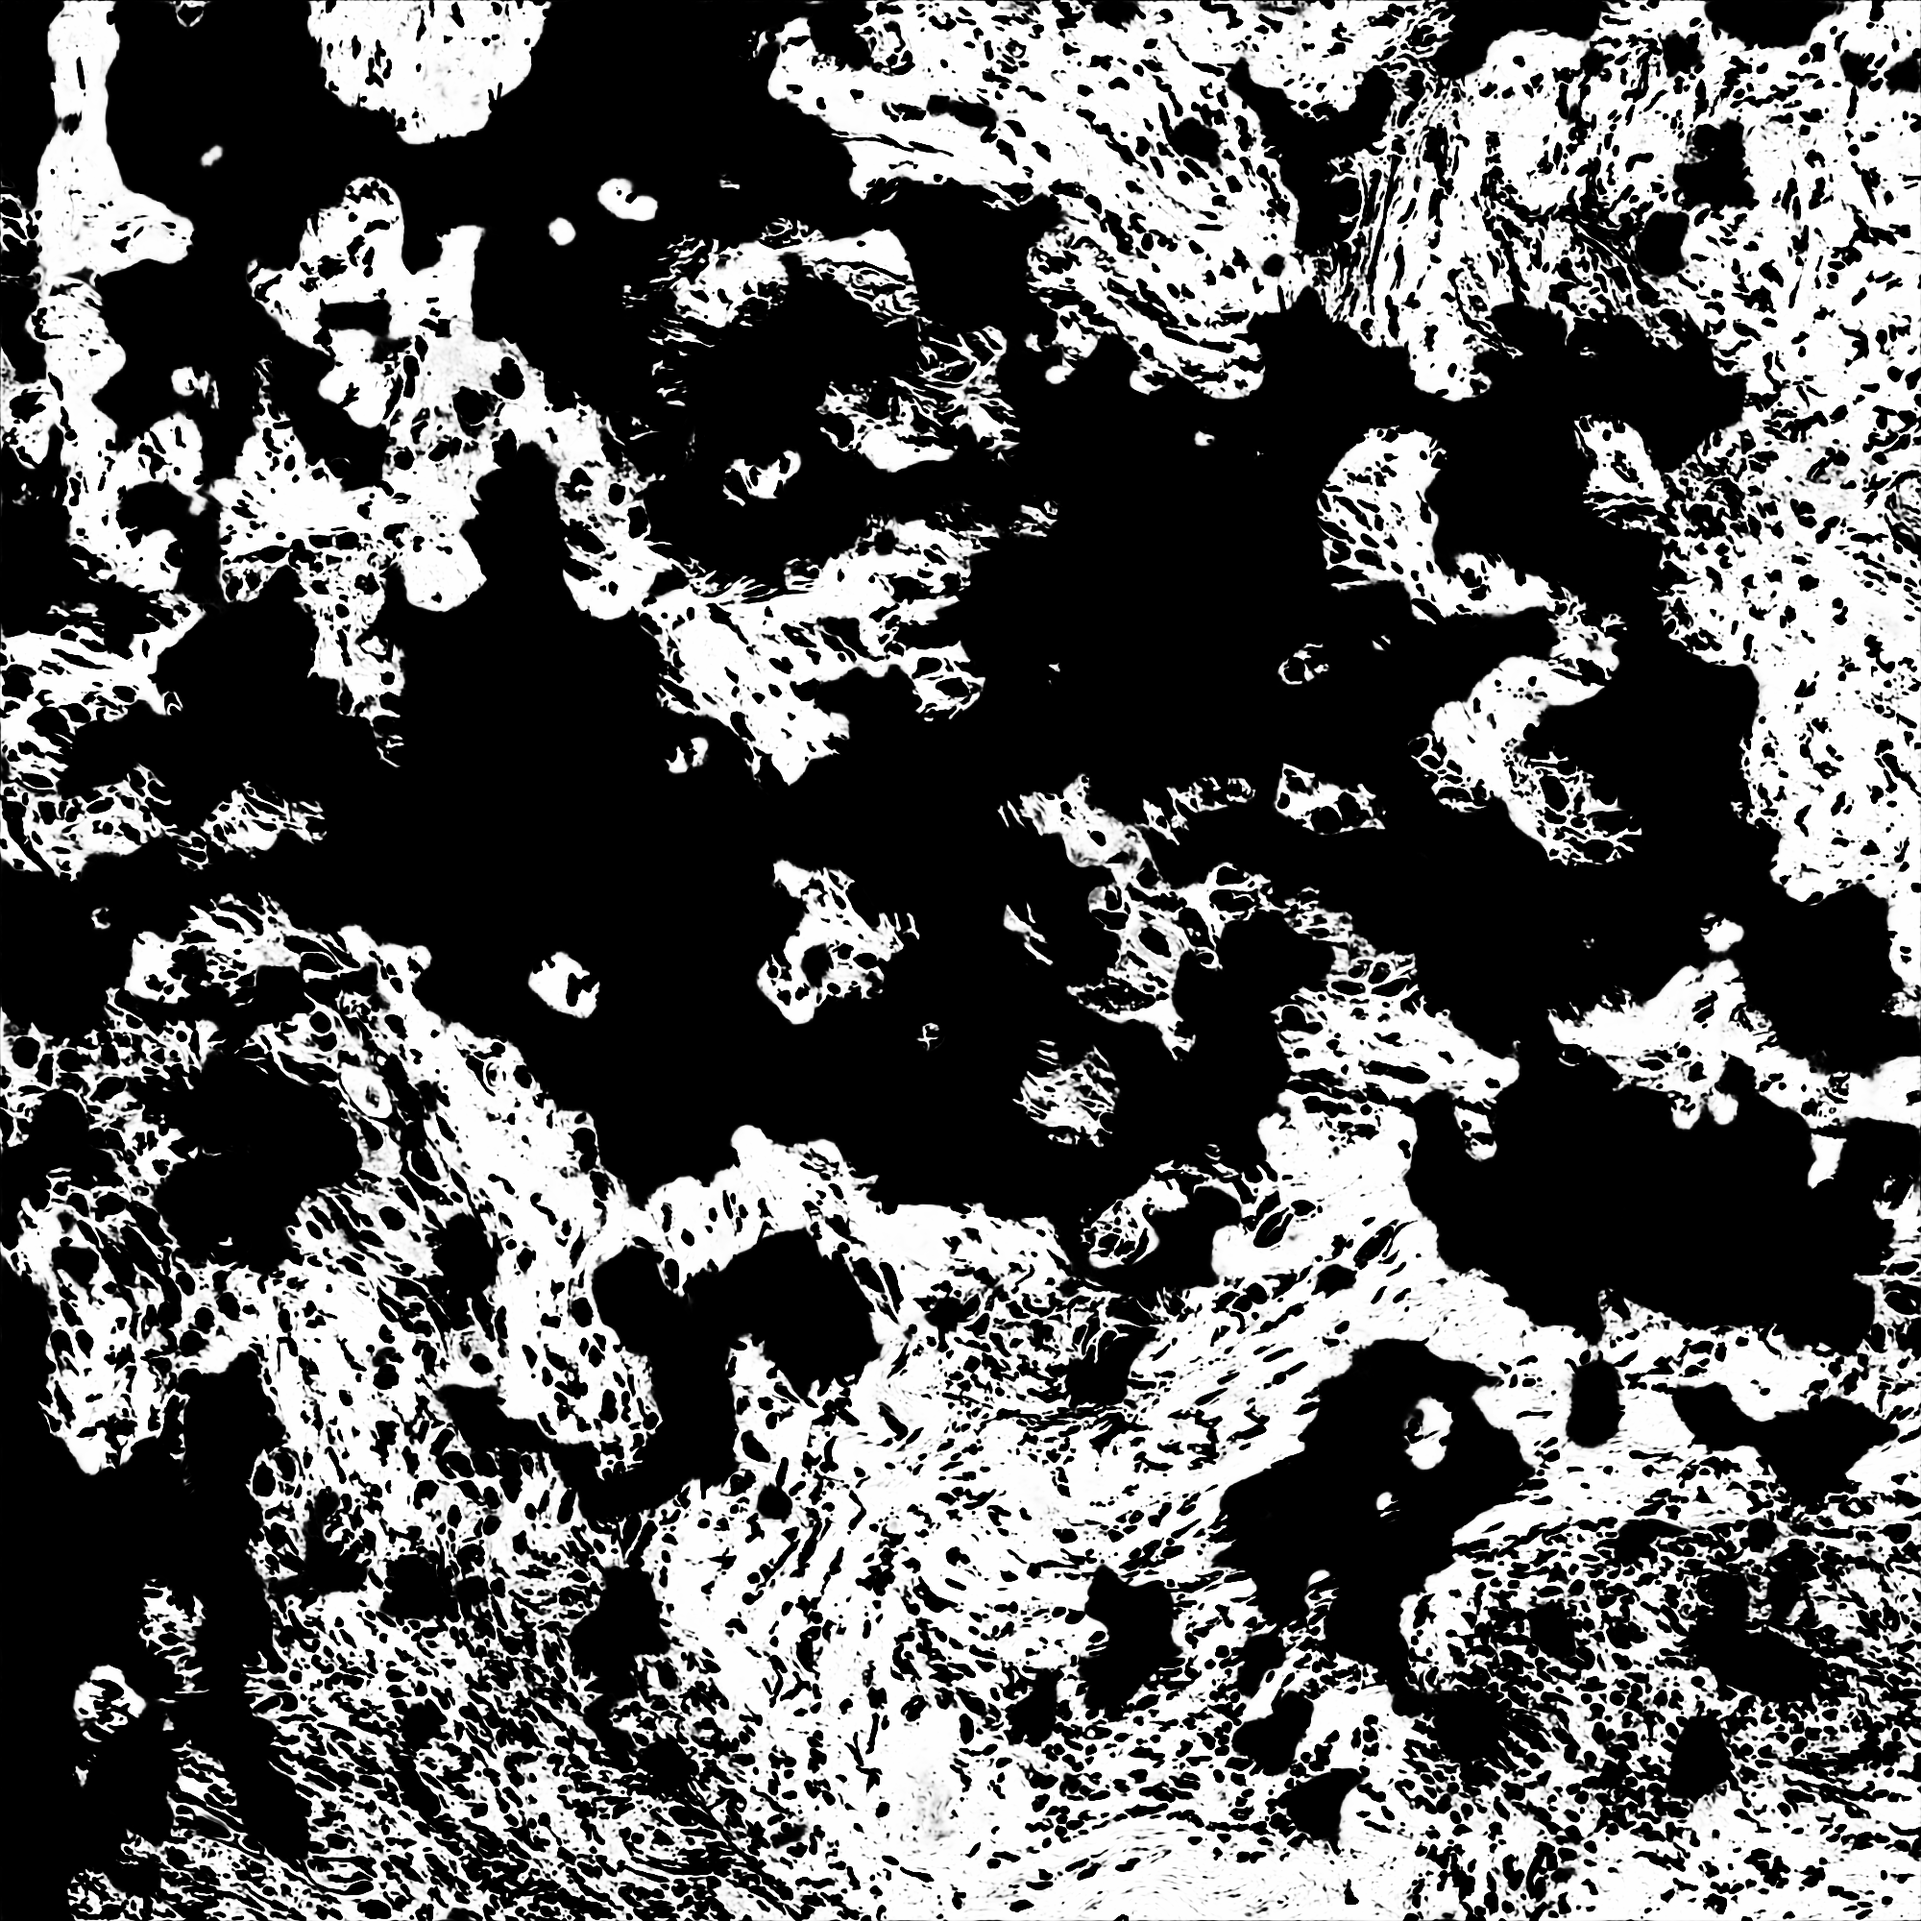
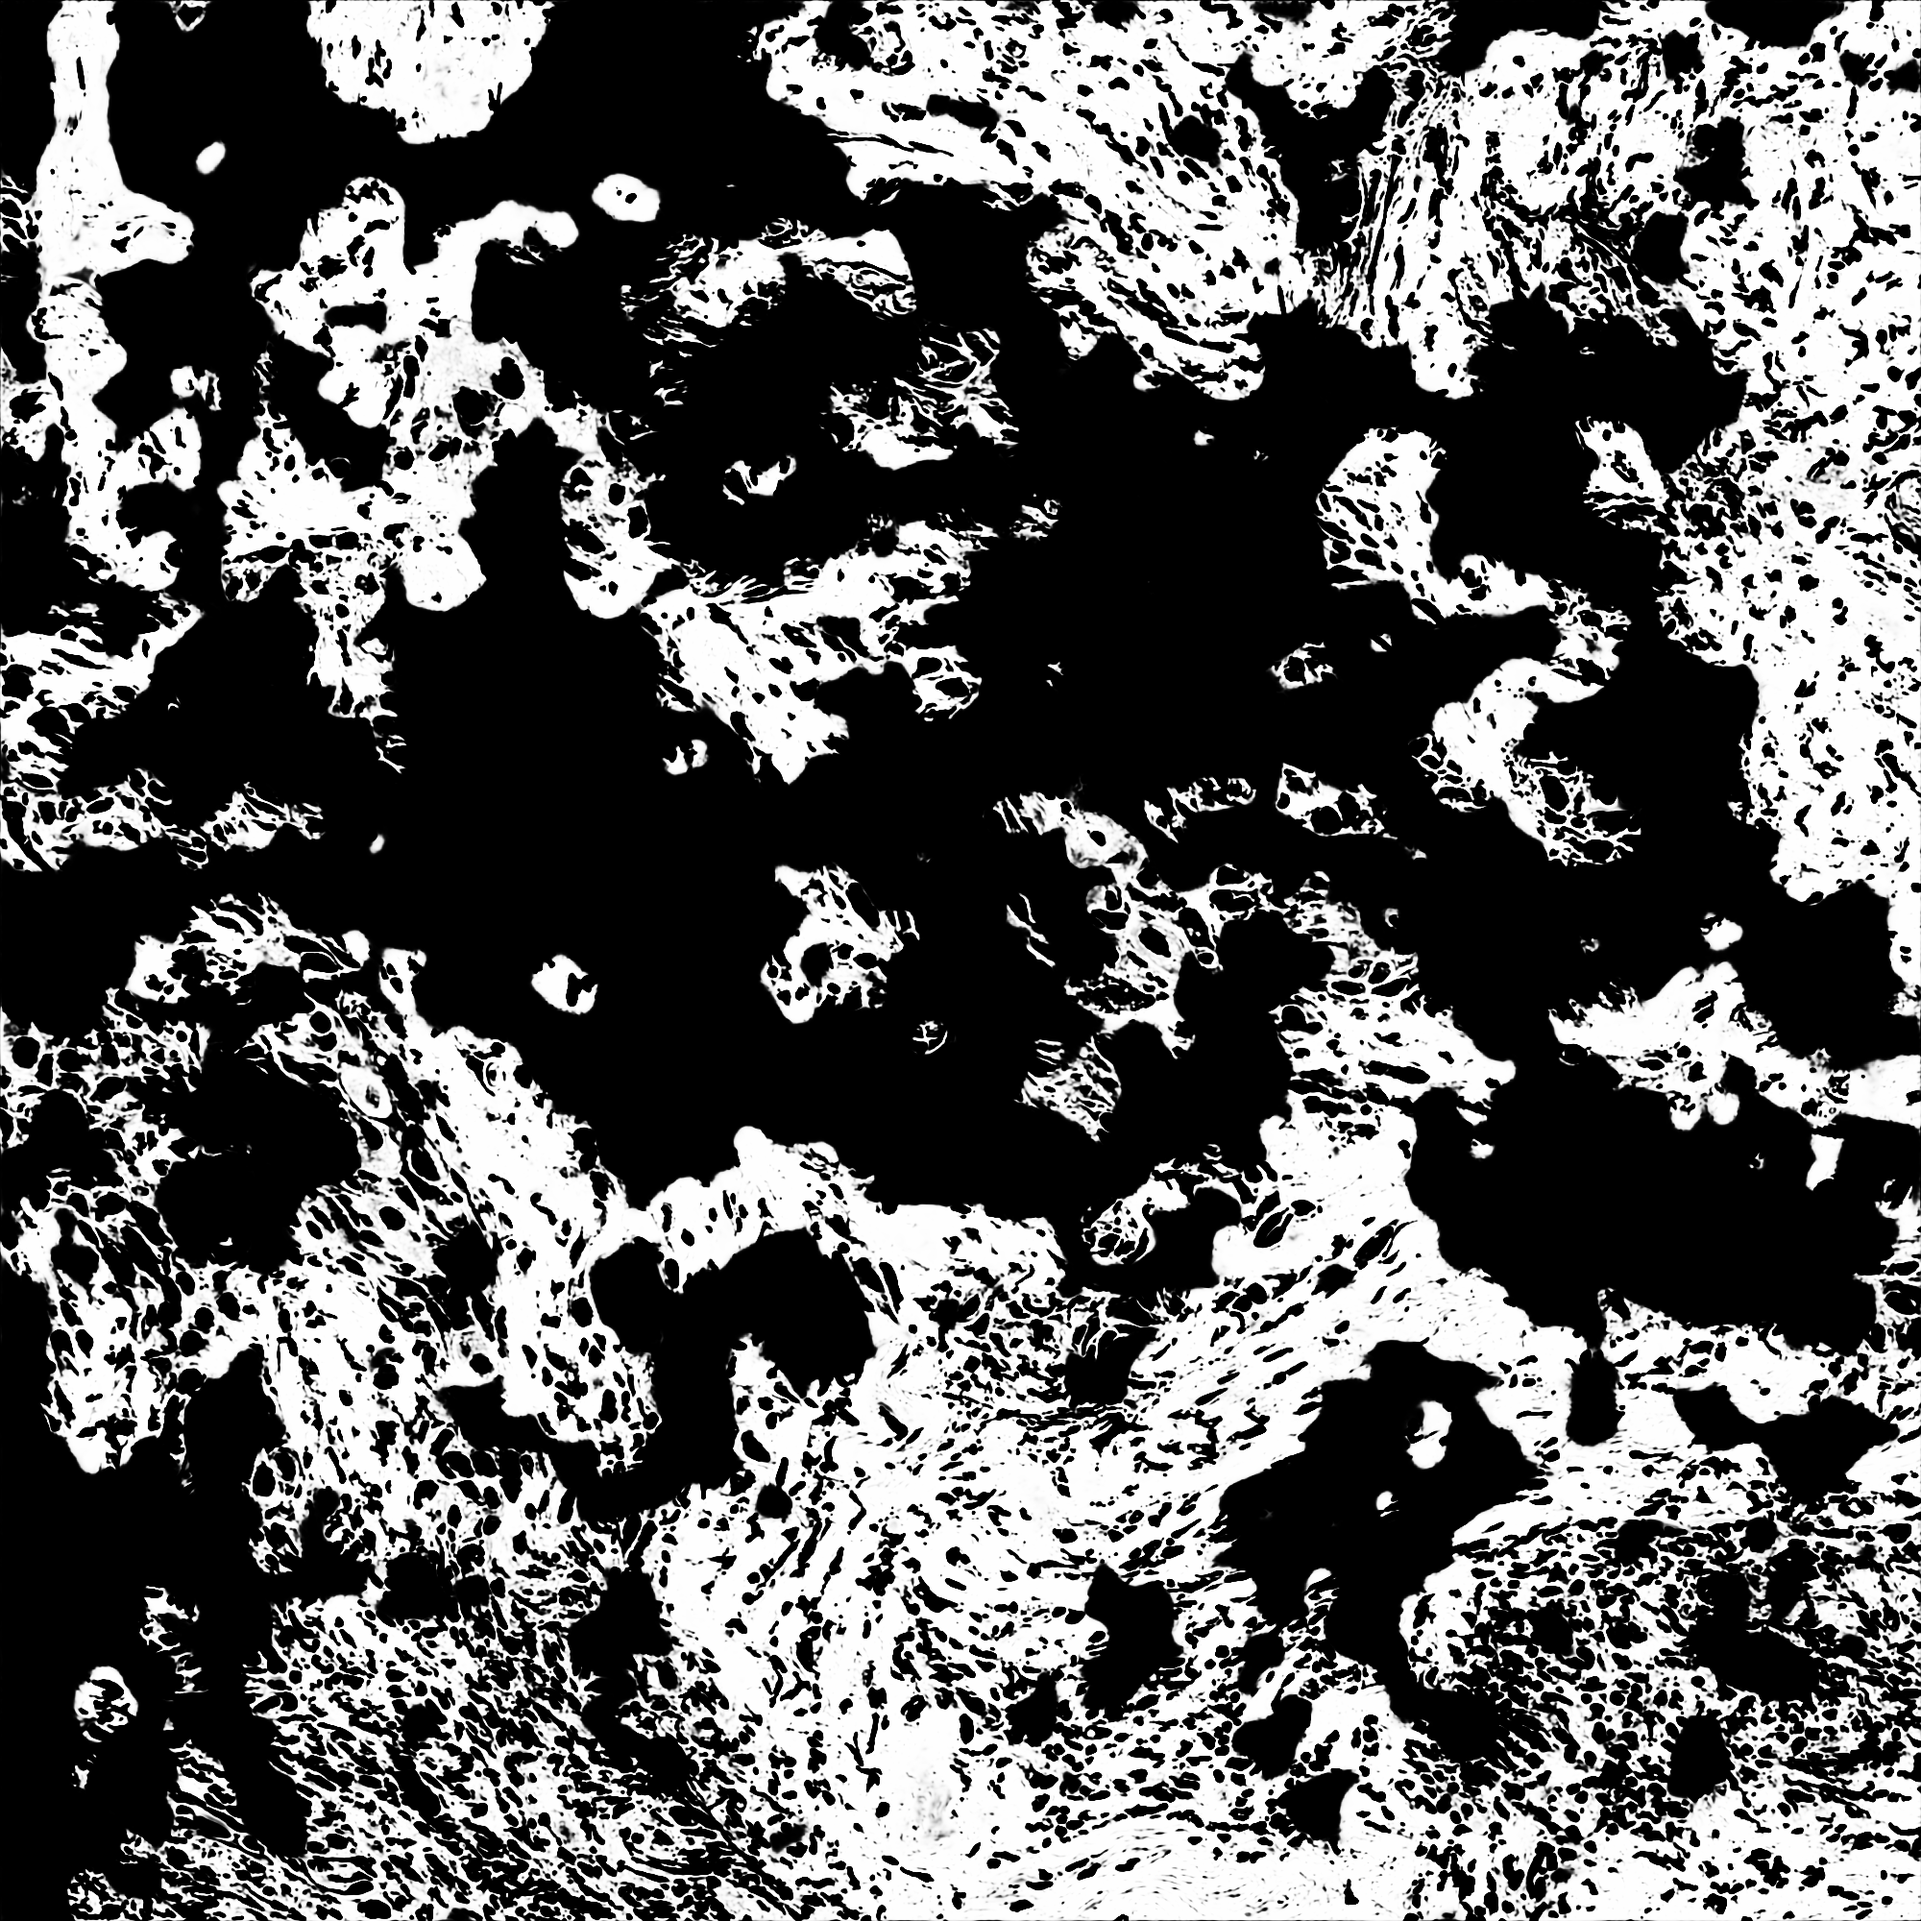
added image color normalization for the segmentation

diff --git a/epistroma.py b/epistroma.py
@@ -8,7 +8,9 @@ import numpy as np
 from timeit import default_timer as timer
 import argparse
 import cv2
-
+from histomicstk.preprocessing.color_normalization.\
+    deconvolution_based_normalization import deconvolution_based_normalization
+    
 def main(args):
     tf.flags.DEFINE_string('gpu_index', '0', 'gpu index, default: 0')
     FLAGS = tf.flags.FLAGS
@@ -18,7 +20,17 @@ def main(args):
     model = utils.net_arch(sess, flags, (2000,2000))
     saver = tf.train.Saver()
     sess.run(tf.global_variables_initializer())
-    model_out_dir = "./models/model_epistroma"  
+    model_out_dir = "./models/model_epistroma"
+    # define color tcga image
+    # TCGA-A2-A3XS-DX1_xmin21421_ymin37486_.png, Amgad et al, 2019)
+    # for macenco (obtained using rgb_separate_stains_macenko_pca()
+    # and reordered such that columns are the order:
+    # Hamtoxylin, Eosin, Null
+    W_target = np.array([
+        [0.5807549,  0.08314027,  0.08213795],
+        [0.71681094,  0.90081588,  0.41999816],
+        [0.38588316,  0.42616716, -0.90380025]
+    ])
     if utils.load_model(sess, saver, model_out_dir):
         best_auc_sum = sess.run(model.best_auc_sum)
         print('====================================================')
@@ -34,6 +46,14 @@ def main(args):
                 print('file existed, continue to next')
                 continue
             image = Image.open(name)
+            # ToDo: Improve the detection of cells, image scaling and color normalization
+            stain_unmixing_routine_params = {
+                'stains': ['hematoxylin', 'eosin'],
+                'stain_unmixing_method': 'macenko_pca',}
+            tissue_rgb_normalized = deconvolution_based_normalization(
+                np.asarray(image), W_target=W_target,
+                stain_unmixing_routine_params=stain_unmixing_routine_params)
+            image = Image.fromarray(np.uint8(tissue_rgb_normalized))
             print(np.shape(image))
             image = image.resize((2000,2000), Image.ANTIALIAS) 
             print('predicting on image ', name)

diff --git a/nucleiseg.py b/nucleiseg.py
@@ -10,6 +10,8 @@ import argparse
 import matplotlib.pyplot as plt
 import matplotlib.cm as cm
 from numpy import asarray
+from histomicstk.preprocessing.color_normalization.\
+    deconvolution_based_normalization import deconvolution_based_normalization
 
 def main(args):
     tf.flags.DEFINE_string('gpu_index', '1', 'gpu index, default: 0')
@@ -21,6 +23,16 @@ def main(args):
     saver = tf.train.Saver()
     sess.run(tf.global_variables_initializer())
     model_out_dir = "./models/model_nuclei"  
+    # define color tcga image
+    # TCGA-A2-A3XS-DX1_xmin21421_ymin37486_.png, Amgad et al, 2019)
+    # for macenco (obtained using rgb_separate_stains_macenko_pca()
+    # and reordered such that columns are the order:
+    # Hamtoxylin, Eosin, Null
+    W_target = np.array([
+        [0.5807549,  0.08314027,  0.08213795],
+        [0.71681094,  0.90081588,  0.41999816],
+        [0.38588316,  0.42616716, -0.90380025]
+    ])
     if utils.load_model(sess, saver, model_out_dir):
         best_auc_sum = sess.run(model.best_auc_sum)
         print('====================================================')
@@ -39,6 +51,13 @@ def main(args):
             image = Image.open(name)
             print(np.shape(image))
             # ToDo: Improve the detection of cells, image scaling and color normalization
+            stain_unmixing_routine_params = {
+                'stains': ['hematoxylin', 'eosin'],
+                'stain_unmixing_method': 'macenko_pca',}
+            tissue_rgb_normalized = deconvolution_based_normalization(
+                np.asarray(image), W_target=W_target,
+                stain_unmixing_routine_params=stain_unmixing_routine_params)
+            image = Image.fromarray(np.uint8(tissue_rgb_normalized))
             # Split image into 4 tiles
             #image_numpydata = asarray(image)
             #M = image_numpydata.shape[0]//2
